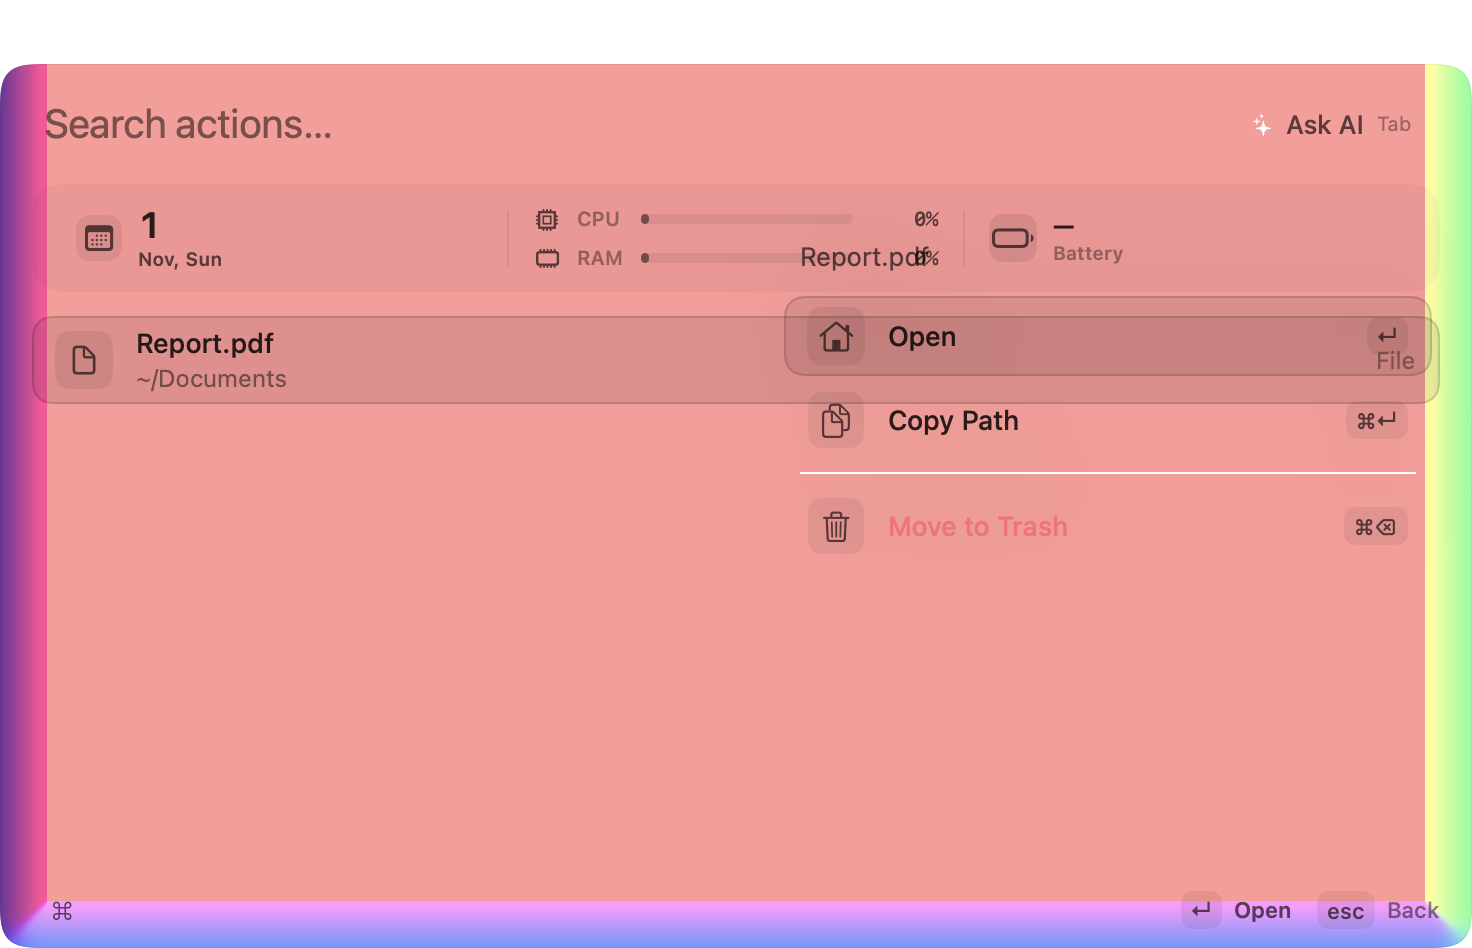
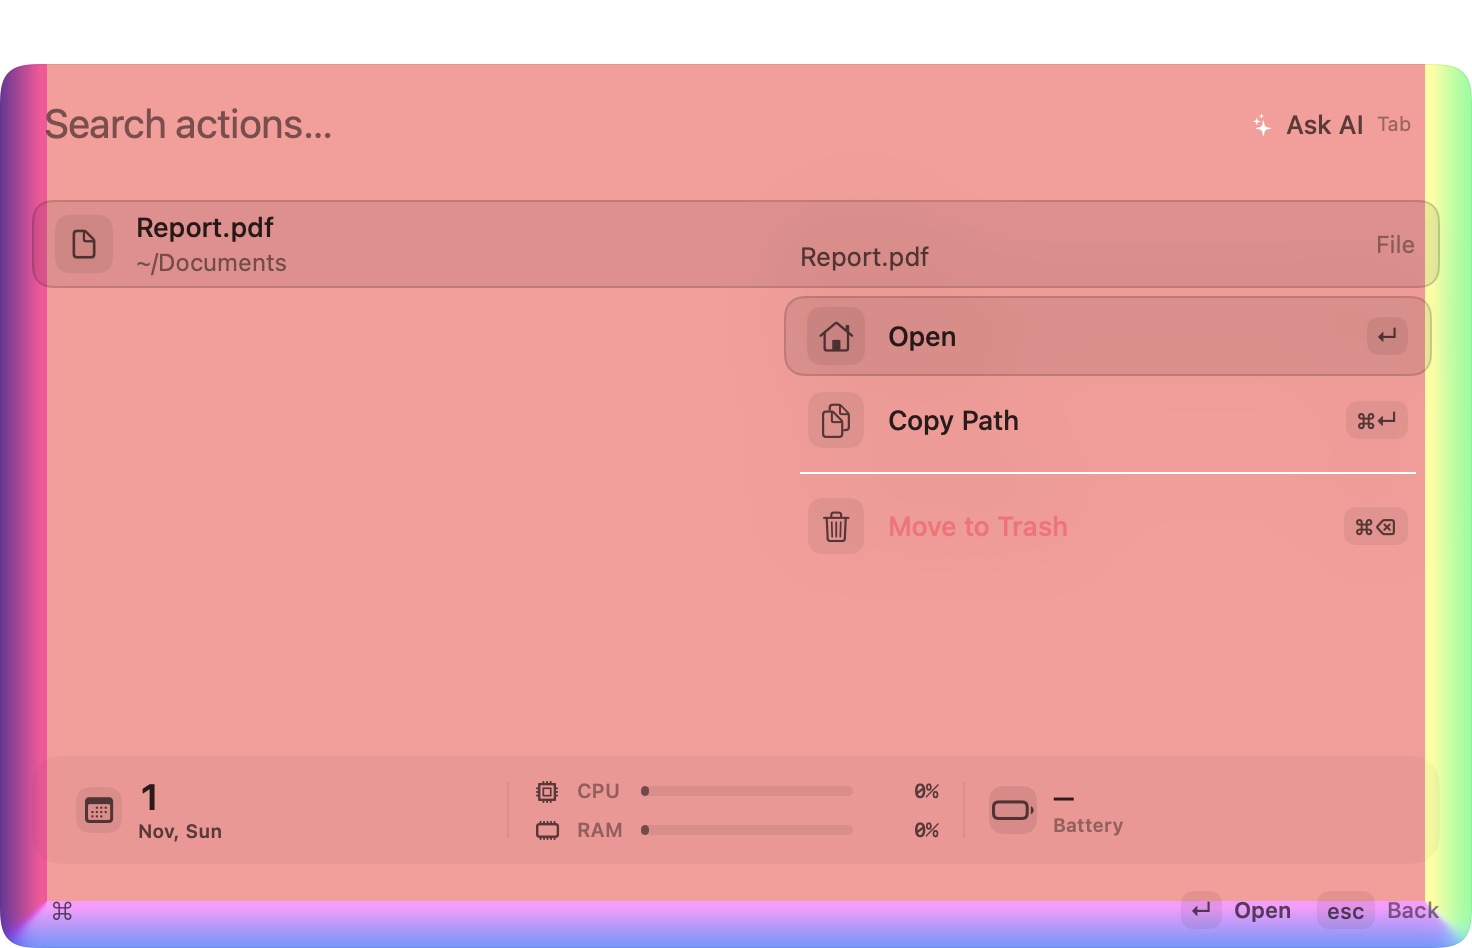
Phase 2.6: the list's top edge holds still; notices and widgets sit above the footer

diff --git a/Sources/Foundry/UI/CommandPanelView.swift b/Sources/Foundry/UI/CommandPanelView.swift
@@ -77,6 +77,9 @@ struct CommandPanelView: View {
             }
 
             if state.compactCollapsed == false {
+                surfaceContent
+                    .id(surfaceSpec.id)
+
                 if state.showsWhatsNew && state.mode == .search && trimmedQuery.isEmpty {
                     HStack(alignment: .center, spacing: 6) {
                         InlineNotice(level: .info, text: LocalizedStringResource(stringLiteral: WhatsNew.summary), symbol: "sparkles",
@@ -91,9 +94,6 @@ struct CommandPanelView: View {
                 if shouldShowHomeAccessory {
                     homeAccessoryStrip
                 }
-
-                surfaceContent
-                    .id(surfaceSpec.id)
 
                 panelFooter
             }
@@ -605,7 +605,7 @@ struct CommandPanelView: View {
         .background(FoundryTheme.fillSubtle)
         .clipShape(RoundedRectangle(cornerRadius: 14, style: .continuous))
         .padding(.horizontal, 16)
-        .padding(.bottom, 4)
+        .padding(.vertical, 4)
         .animation(reduceMotion ? nil : FoundryTheme.Motion.state, value: fileShelf.files.count)
         .animation(reduceMotion ? nil : FoundryTheme.Motion.state, value: agents.sessions.count)
     }
